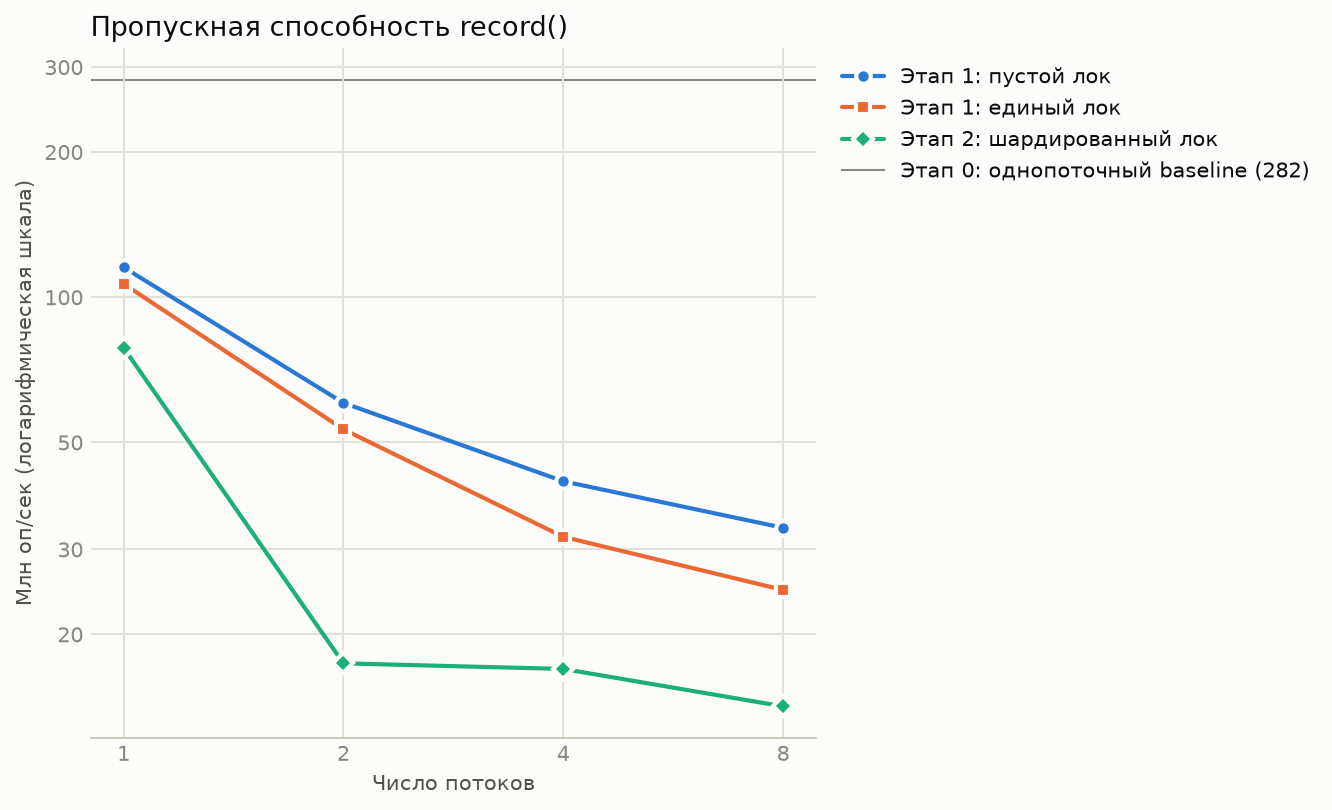
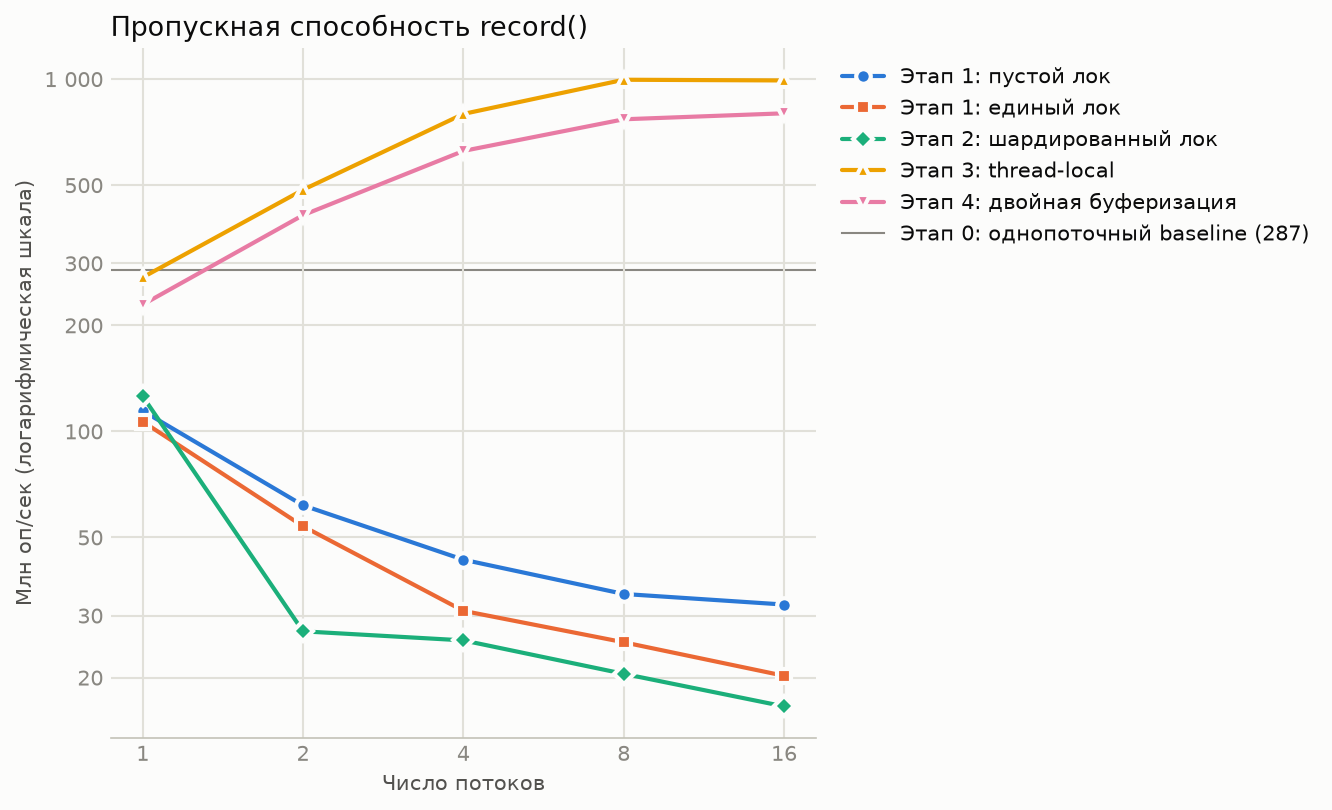
impl thread local collector and final report

diff --git a/lab1/src/thread_local_collector.cpp b/lab1/src/thread_local_collector.cpp
@@ -1,0 +1,86 @@
+#include "thread_local_collector.hpp"
+
+#include "metrics.hpp"
+
+#include <algorithm>
+#include <array>
+#include <atomic>
+#include <cstdint>
+#include <limits>
+#include <memory>
+#include <mutex>
+
+// more efficient than fetch_add
+// the owner is the single writer, so a plain load and store is enough
+static void relaxed_add(std::atomic<uint64_t> &c, uint64_t delta) {
+    c.store(c.load(std::memory_order_relaxed) + delta, std::memory_order_relaxed);
+}
+
+ThreadLocalCollector::ThreadLocalCollector() : id_(next_collector_id()) {}
+
+ThreadState *ThreadLocalCollector::get_my_state() {
+    struct TLSSlot {
+        uint64_t id = 0;
+        ThreadState *state = nullptr;
+    };
+    static thread_local TLSSlot slot;
+
+    if (slot.id != id_) {
+        auto state = std::make_unique<ThreadState>();
+        ThreadState *raw = state.get();
+        {
+            std::lock_guard lock(listMt_);
+            states_.push_back(std::move(state));
+        }
+        slot.id = id_;
+        slot.state = raw;
+    }
+    return slot.state;
+}
+
+void ThreadLocalCollector::record(uint64_t value) {
+    ThreadState *s = get_my_state();
+    uint64_t bucket = std::min<uint64_t>(value / bucketWidth, bucketsCount - 1);
+
+    relaxed_add(s->buckets[bucket], 1);
+    relaxed_add(s->count, 1);
+    relaxed_add(s->sum, value);
+
+    if (value < s->min.load(std::memory_order_relaxed)) {
+        s->min.store(value, std::memory_order_relaxed);
+    }
+    if (value > s->max.load(std::memory_order_relaxed)) {
+        s->max.store(value, std::memory_order_relaxed);
+    }
+}
+
+Snapshot ThreadLocalCollector::snapshot() {
+    std::array<uint64_t, bucketsCount> buckets{};
+    uint64_t count = 0;
+    uint64_t sum = 0;
+    uint64_t min = std::numeric_limits<uint64_t>::max();
+    uint64_t max = std::numeric_limits<uint64_t>::min();
+
+    std::lock_guard lock(listMt_);
+    for (const auto &s : states_) {
+        for (std::size_t i = 0; i < bucketsCount; ++i) {
+            buckets[i] += s->buckets[i].load(std::memory_order_relaxed);
+        }
+        count += s->count.load(std::memory_order_relaxed);
+        sum += s->sum.load(std::memory_order_relaxed);
+        min = std::min(min, s->min.load(std::memory_order_relaxed));
+        max = std::max(max, s->max.load(std::memory_order_relaxed));
+    }
+
+    uint64_t p50 = percentile(0.50, count, buckets);
+    uint64_t p99 = percentile(0.99, count, buckets);
+    return Snapshot{
+        .buckets = buckets,
+        .count = count,
+        .sum = sum,
+        .min = min,
+        .max = max,
+        .p50 = p50,
+        .p99 = p99,
+    };
+}

diff --git a/lab1/src/double_buffer_collector.cpp b/lab1/src/double_buffer_collector.cpp
@@ -28,20 +28,16 @@ void Buf::merge(const Buf &other) {
     max = std::max(max, other.max);
 }
 
-// thread_local slot outlives collectors, so it has to remember which collector the buffers belong to
-static uint64_t next_collector_id() {
-    static std::atomic<uint64_t> counter{1};
-    return counter.fetch_add(1);
-}
+template <bool Recheck>
+BasicDoubleBufferCollector<Recheck>::BasicDoubleBufferCollector() : id_(next_collector_id()) {}
 
-DoubleBufferCollector::DoubleBufferCollector() : id_(next_collector_id()) {}
-
-ThreadBuffers *DoubleBufferCollector::get_my_buffers() {
-    struct Slot {
+template <bool Recheck>
+ThreadBuffers *BasicDoubleBufferCollector<Recheck>::get_my_buffers() {
+    struct TLSSlot {
         uint64_t id = 0;
         ThreadBuffers *buffers = nullptr;
     };
-    static thread_local Slot slot;
+    static thread_local TLSSlot slot;
 
     if (slot.id != id_) {
         auto buffers = std::make_unique<ThreadBuffers>();
@@ -56,14 +52,18 @@ ThreadBuffers *DoubleBufferCollector::get_my_buffers() {
     return slot.buffers;
 }
 
-void DoubleBufferCollector::record(uint64_t value) {
+template <bool Recheck>
+void BasicDoubleBufferCollector<Recheck>::record(uint64_t value) {
     ThreadBuffers *my = get_my_buffers();
 
     int b;
     while (true) {
         b = active_.load();
         my->inside.store(b);
-        if (active_.load() == b) { 
+        if constexpr (!Recheck) {
+            break;
+        }
+        if (active_.load() == b) {
             break;
         }
         my->inside.store(nowhere, std::memory_order_release);
@@ -80,7 +80,8 @@ void DoubleBufferCollector::record(uint64_t value) {
     my->inside.store(nowhere, std::memory_order_release);
 }
 
-Snapshot DoubleBufferCollector::snapshot() {
+template <bool Recheck>
+Snapshot BasicDoubleBufferCollector<Recheck>::snapshot() {
     std::lock_guard lock(snapMt_);
 
     int old = active_.load();
@@ -107,3 +108,6 @@ Snapshot DoubleBufferCollector::snapshot() {
         .p99 = p99,
     };
 }
+
+template class BasicDoubleBufferCollector<true>;
+template class BasicDoubleBufferCollector<false>;

diff --git a/lab1/src/main.cpp b/lab1/src/main.cpp
@@ -4,6 +4,7 @@
 #include "mutex_collector.hpp"
 #include "single_thread_collector.hpp"
 #include "striped_collector.hpp"
+#include "thread_local_collector.hpp"
 
 #include <algorithm>
 #include <array>
@@ -165,15 +166,17 @@ enum class Impl {
     Striped,
     ThreadLocal,
     DoubleBuffer,
+    DoubleBufferNoRecheck,
 };
 
-constexpr std::array<std::pair<Impl, std::string_view>, 6> implNames{{
+constexpr std::array<std::pair<Impl, std::string_view>, 7> implNames{{
     {Impl::SingleThread, "single_thread"},
     {Impl::EmptyLock, "empty_lock"},
     {Impl::Mutex, "mutex"},
     {Impl::Striped, "striped"},
     {Impl::ThreadLocal, "thread_local"},
     {Impl::DoubleBuffer, "double_buffer"},
+    {Impl::DoubleBufferNoRecheck, "double_buffer_no_recheck"},
 }};
 
 std::optional<Impl> parse_impl(std::string_view name) {
@@ -204,10 +207,12 @@ std::unique_ptr<MetricsCollector> make_collector(Impl impl) {
         return std::make_unique<EmptyLockCollector>();
     case Impl::Striped:
         return std::make_unique<StripedCollector>();
+    case Impl::ThreadLocal:
+        return std::make_unique<ThreadLocalCollector>();
     case Impl::DoubleBuffer:
         return std::make_unique<DoubleBufferCollector>();
-    case Impl::ThreadLocal:
-        return nullptr; // not implemented yet
+    case Impl::DoubleBufferNoRecheck:
+        return std::make_unique<NoRecheckDoubleBufferCollector>();
     }
 }
 

diff --git a/lab1/src/thread_local_collector.hpp b/lab1/src/thread_local_collector.hpp
@@ -1,0 +1,35 @@
+#pragma once
+
+#include "metrics.hpp"
+
+#include <array>
+#include <atomic>
+#include <cstdint>
+#include <limits>
+#include <memory>
+#include <mutex>
+#include <vector>
+
+// a cache line on Apple M1 is 128 bytes
+struct alignas(128) ThreadState {
+    std::array<std::atomic<uint64_t>, bucketsCount> buckets{};
+    std::atomic<uint64_t> count = 0;
+    std::atomic<uint64_t> sum = 0;
+    std::atomic<uint64_t> min = std::numeric_limits<uint64_t>::max();
+    std::atomic<uint64_t> max = std::numeric_limits<uint64_t>::min();
+};
+
+class ThreadLocalCollector : public MetricsCollector {
+    const uint64_t id_;
+    std::mutex listMt_;
+    std::vector<std::unique_ptr<ThreadState>> states_;
+
+    ThreadState *get_my_state();
+
+  public:
+    ThreadLocalCollector();
+
+    void record(uint64_t value) override;
+
+    Snapshot snapshot() override;
+};

diff --git a/lab1/src/double_buffer_collector.hpp b/lab1/src/double_buffer_collector.hpp
@@ -29,7 +29,9 @@ struct alignas(128) ThreadBuffers {
     std::array<Buf, 2> bufs;
 };
 
-class DoubleBufferCollector : public MetricsCollector {
+// Recheck = false drops the second active_ check in record(), it is broken on purpose for the stage 4 experiment
+template <bool Recheck>
+class BasicDoubleBufferCollector : public MetricsCollector {
     const uint64_t id_;
     std::atomic<int> active_{0};
     std::mutex snapMt_;
@@ -39,9 +41,12 @@ class DoubleBufferCollector : public MetricsCollector {
     ThreadBuffers *get_my_buffers();
 
   public:
-    DoubleBufferCollector();
+    BasicDoubleBufferCollector();
 
     void record(uint64_t value) override;
 
     Snapshot snapshot() override;
 };
+
+using DoubleBufferCollector = BasicDoubleBufferCollector<true>;
+using NoRecheckDoubleBufferCollector = BasicDoubleBufferCollector<false>;

diff --git a/lab1/src/metrics.cpp b/lab1/src/metrics.cpp
@@ -1,6 +1,7 @@
 #include "metrics.hpp"
 
 #include <array>
+#include <atomic>
 #include <cstdint>
 
 uint64_t percentile(double p, uint64_t count, const std::array<uint64_t, bucketsCount> &buckets) {
@@ -13,4 +14,9 @@ uint64_t percentile(double p, uint64_t count, const std::array<uint64_t, buckets
         }
     }
     return (bucketsCount - 1) * bucketWidth;
+}
+
+uint64_t next_collector_id() {
+    static std::atomic<uint64_t> counter{1};
+    return counter.fetch_add(1);
 }

diff --git a/lab1/src/metrics.hpp b/lab1/src/metrics.hpp
@@ -24,3 +24,5 @@ class MetricsCollector {
 };
 
 uint64_t percentile(double p, uint64_t count, const std::array<uint64_t, bucketsCount> &buckets);
+
+uint64_t next_collector_id();
